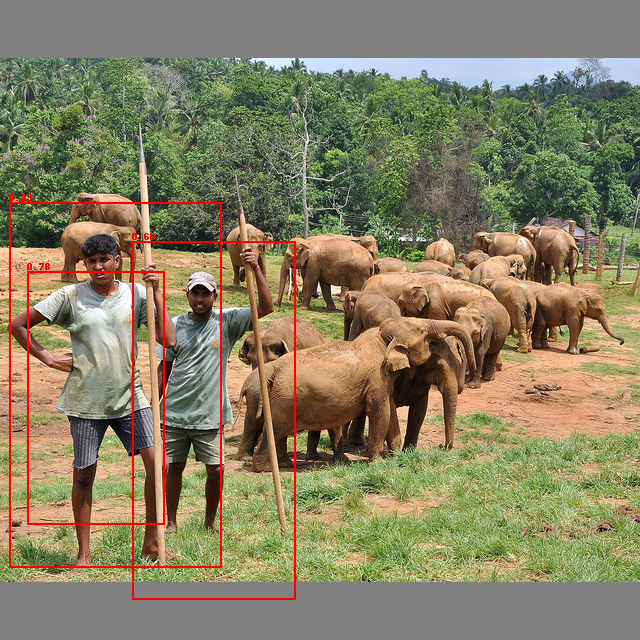
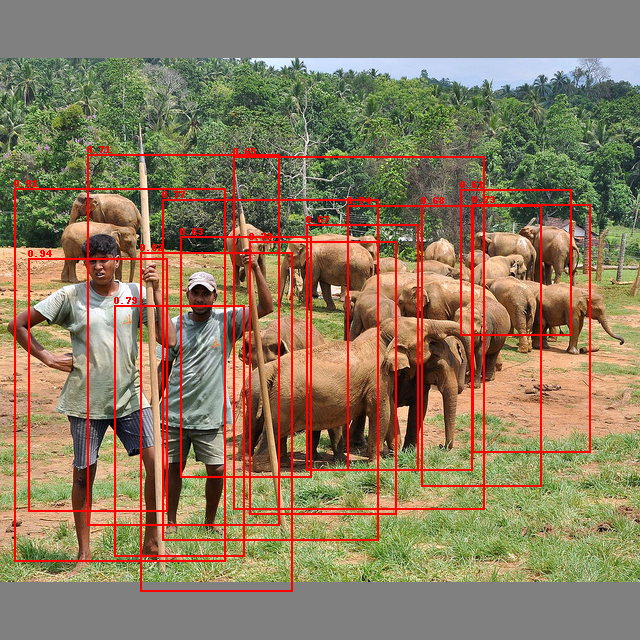
init

diff --git a/src/loss.py b/src/loss.py
@@ -26,7 +26,7 @@ class FocalLoss(nn.Module):
             return focal_loss
 
 class DetectionLoss(nn.Module):
-    def __init__(self, lambda_box=7.5, lambda_conf=1.0, iou_thresh=0.5, use_focal_loss=True, focal_alpha=0.25, focal_gamma=2.0):
+    def __init__(self, lambda_box=7.5, lambda_conf=1.0, iou_thresh=0.35, use_focal_loss=True, focal_alpha=0.25, focal_gamma=2.0):
         super().__init__()
         self.lambda_box = lambda_box
         self.lambda_conf = lambda_conf

diff --git a/inference.py b/inference.py
@@ -17,7 +17,7 @@ from src.loader import get_custom_dataloaders
 _, test_loader = get_custom_dataloaders(batch_size=10) 
 
 network.to(device)
-network.load_state_dict(torch.load("weights/bs128_ep10_lr0.0001/e_77.pt", map_location=device))
+network.load_state_dict(torch.load("weights/bs128_ep10_lr0.0001/e_76.pt", map_location=device))
 network.eval()
 
 from src.utils import draw_bboxes, postprocess_single_image_predictions
